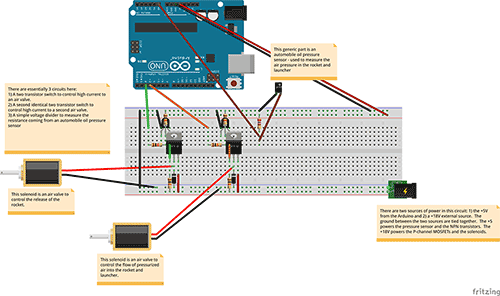
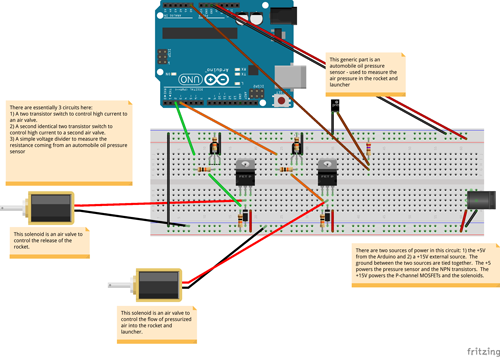
Update launcher circuit documentation to address issues found during jsconf 2014. Pictures had wrong direction for NPN transistor. Barrel jack plug wasn't understood. Some teams plugged 15 V into Arduino power jack.

diff --git a/src/documents/launcher_control.html.md b/src/documents/launcher_control.html.md
@@ -93,6 +93,11 @@ We will create two valve control circuits, and the pressure measurement circuit.
 
 In order to make it easy to connect to the valves and sensor, we included a CAT6 keystone jack.  The circuit board will be connected to the control assembly (valves and sensor) through a network cable.  This makes it easier to set up and tear down the launcher.
 
+**** WARNINGS ****
+- The direction of the diodes matters.  If you put them in backwards you are short circuiting your transistors.
+- Don't plug the 15 V into the Arduino power jack.  It fits, but it's way too much power.  You could damage the Arduino.
+- Different transistors may use different pins than the ones in the diagrams/pictures.  If you aren't using the same parts listed above, make sure the pins match for base, collector, and emitter (or gate, source, and drain).  If they don't match, adjust your wiring accordingly.
+
 Put all together, it should look like this:
 
 [![project circuit layout](images/launcher_circuit_small.png)](images/noderocket-launcher_electronics_bb.png)
@@ -103,7 +108,8 @@ Put all together, it should look like this:
 
 And here is a real life version:
 
-![completed circuit](images/launcher_control_board.png)
+<img src="images/launcher_control_board.jpg" alt="Spark Core" style="width: 500px;"/>
+[Larger Version](images/launcher_control_board.jpg)
 
 ### Using a Spark Core
 
